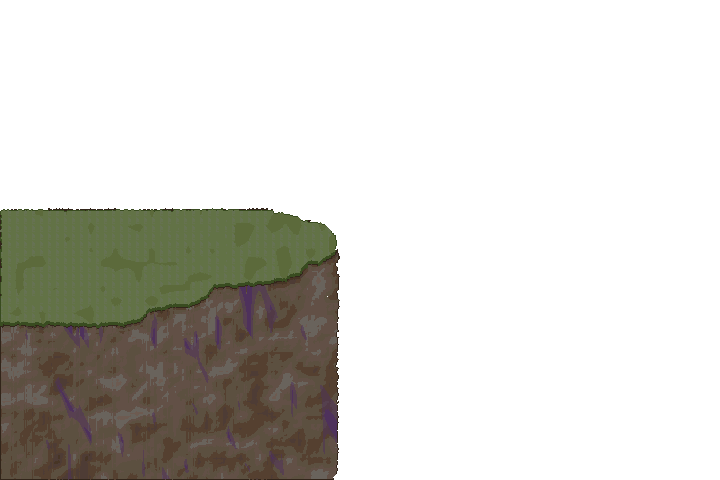
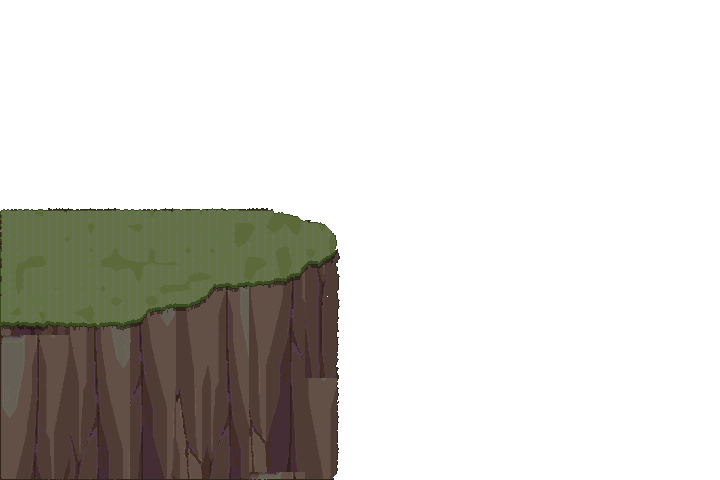
Cliff : reprendre la texture rocheuse de l'illustration source nette (colonnes a facettes) au lieu de la synthetiser

Changed region(s): [[0.0, 0.5312, 0.4889, 1.0]]

diff --git a/tileset_pmd/construire_cliff_layers.py b/tileset_pmd/construire_cliff_layers.py
@@ -75,6 +75,7 @@ REF_BORD = REF / "ref_cliff_edge.png"
 GEN_CLIFF = REF / "gen_cliff.png"
 TUILE_HERBE = REF / "tile_grass8.png"      # cellule 8x8 prelevee dans Metano
 REF_PAROI = REF / "ref_paroi.png"          # la paroi rocheuse de la reference
+TEX_PAROI = REF / "tex_paroi.png"          # colonnes rocheuses a facettes
 GEN_SEA = REF / "gen_sea.png"
 GEN_CLOUDS = REF / "gen_clouds.png"
 
@@ -232,76 +233,85 @@ def _bruit(forme, freq, graine):
 
 
 def peindre_roche(masque: np.ndarray) -> np.ndarray:
-    """Dessine la paroi en amas, facon Metano, dans la silhouette donnee.
+    """Pave la paroi avec la VRAIE texture rocheuse, dans la silhouette donnee.
 
-    Deux essais ont ete jetes avant celui-ci : un mouchetis pixel par pixel
-    (aucune structure lisible) puis des strates horizontales (velours cotele,
-    puis veines de bois des qu'on les rendait irregulieres). En regardant la
-    reference agrandie, la roche est faite de PLAQUES arrondies de taille
-    moyenne, eclairees en haut a gauche, avec des saignees mauves obliques.
+    C'est la methode du premier jet, retrouvee dans l'historique (commit
+    b632cee) : la falaise d'origine venait de `gen_cliff_metano.png`, une
+    illustration 1103x960 NETTE, ou la roche est dessinee en colonnes
+    verticales a facettes. La source utilisee ensuite, `gen_cliff.png`
+    (350x280), est floue — d'ou les tentatives de RECONSTRUIRE la texture au
+    bruit, qui n'ont jamais rendu le pixel art de Metano.
+
+    On prend donc un pave propre de cette illustration, remis a l'echelle du
+    jeu (facteur 496/1103, celui du cadrage d'origine), et on le repete dans
+    la silhouette. Les colonnes de la reference sont verticales : le pavage se
+    fait donc en x seulement, et on decale chaque bande d'un cran vertical
+    variable pour ne pas voir la repetition.
     """
     H, W = masque.shape
-    yy, xx = np.mgrid[0:H, 0:W].astype(float)
+    src = Image.open(TEX_PAROI).convert("RGB")
+    # La texture est etiree pour couvrir TOUTE la hauteur de la paroi d'un
+    # seul tenant. Empiler plusieurs rangees laissait des coutures
+    # horizontales franches en travers de la falaise, et la roche de la
+    # reference est faite de colonnes verticales : l'etirer dans leur sens ne
+    # la deforme pas, il allonge simplement les facettes.
+    if H > src.height:
+        src = src.resize((src.width, H), Image.LANCZOS)
+    t = np.array(src)
+    th, tw = t.shape[:2]
 
-    # 1. Les plaques : deux echelles de bruit, quantifiees en paliers pour
-    #    obtenir des aplats a bord net et non un degrade continu.
-    gros = _bruit((H, W), 17, 11)
-    moyen = _bruit((H, W), 8, 12)
-    fin = _bruit((H, W), 4, 13)
-    # Le bruit fin est volontairement peu pondere : au-dela, il reintroduit
-    # le grain pixel par pixel qu'on cherche justement a supprimer.
-    champ = 0.58 * gros + 0.33 * moyen + 0.09 * fin
+    # Pavage en miroir alterne. Decaler chaque bande verticalement (premier
+    # essai) faisait apparaitre de longues DIAGONALES parasites : les facettes
+    # de deux bandes voisines s'alignaient de biais. Le miroir, lui, raccorde
+    # bord a bord sans creer de direction privilegiee.
+    # Pavage en miroir alterne, DECALE en x a chaque rangee. Deux essais
+    # avant celui-ci : un decalage vertical par bande creait de longues
+    # diagonales (les facettes voisines s'alignaient de biais), et le miroir
+    # seul laissait lire des symetries en papillon. Le decalage horizontal
+    # aleatoire de chaque rangee casse ces axes.
+    # Une seule rangee, mais des colonnes de LARGEUR VARIABLE, miroitees au
+    # hasard et decalees verticalement. Le miroir systematique une colonne sur
+    # deux donnait des paires en papillon tres lisibles ; le tirage aleatoire
+    # de la largeur et du decalage les supprime tout en gardant le raccord.
+    rng = np.random.default_rng(5)
+    motif = np.zeros((H, W, 3), np.uint8)
+    x = 0
+    while x < W:
+        larg = int(rng.integers(max(8, tw // 3), tw))
+        x1 = int(rng.integers(0, max(1, tw - larg + 1)))
+        bloc = t[:, x1:x1 + larg]
+        if rng.random() < 0.5:
+            bloc = bloc[:, ::-1]
+        bloc = np.roll(bloc, int(rng.integers(0, th)), axis=0)
+        pris = min(larg, W - x)
+        motif[:, x:x + pris] = bloc[:H, :pris]
+        x += pris
 
-    # 2. Eclairage : la lumiere vient du haut a gauche. On decale le champ
-    #    d'un pixel et on compare — la ou la plaque monte, elle prend la
-    #    lumiere ; la ou elle descend, elle passe dans l'ombre. C'est ce qui
-    #    donne le galbe des amas.
-    dy = np.roll(champ, 1, 0) - champ
-    dx = np.roll(champ, 1, 1) - champ
-    relief = np.clip((dy + dx) * 9.0, -1.6, 1.6)
+    # Projection sur la palette Metano : l'illustration source est en
+    # milliers de teintes, PMDO en demande 16 par tuile.
+    pal = palette_depuis([REF_PAROI, REF_ROCHE], maxi=48)
+    chaud = (pal[:, 0] > pal[:, 2] + 25) & (pal[:, 0] > 70)
+    pal = pal[chaud]
+    d = (motif.reshape(-1, 1, 3).astype(int) - pal[None, :, :].astype(int))
+    motif = pal[(d ** 2).sum(2).argmin(1)].reshape(H, W, 3).astype(np.uint8)
 
-    niveau = 3.0 + 6.0 * champ + 1.7 * relief
+    out = np.zeros((H, W, 4), np.uint8)
+    out[masque, :3] = motif[masque]
+    out[masque, 3] = 255
 
-    # 3. Assombrissement en profondeur et sur le flanc droit, comme sur la
-    #    falaise de la reference qui s'enfonce vers la mer.
+    # Occlusion sous la levre herbeuse : la reference pose une ombre franche
+    # juste sous le plateau, c'est elle qui detache la falaise du gazon.
     haut = np.full(W, H, dtype=int)
     for x in range(W):
         col = np.nonzero(masque[:, x])[0]
         if len(col):
             haut[x] = col.min()
+    yy = np.mgrid[0:H, 0:W][0]
     prof = yy - haut[None, :]
-    niveau -= 2.6 * (prof < 3)                 # occlusion sous la levre
-    niveau -= 1.2 * ((prof >= 3) & (prof < 7))
-    niveau -= 1.3 * np.clip(prof / max(1, H - 1), 0, 1)
+    ombre = masque & (prof < 4)
+    out[ombre, :3] = (out[ombre, :3].astype(int) * 0.62).astype(np.uint8)
 
-    idx = np.clip(np.round(niveau), 0, len(ROCHE_METANO) - 1).astype(int)
-    out = np.zeros((H, W, 4), np.uint8)
-    out[masque, :3] = ROCHE_METANO[idx[masque]]
-    out[masque, 3] = 255
-
-    # 4. Veines mauves. Premier essai jete : un bruit isotrope seuille donnait
-    #    des confettis mauves eparpilles. Il faut des saignees ETIREES — on
-    #    tire donc le bruit dans une grille tres aplatie puis on l'etire, ce
-    #    qui allonge les taches, et on les cisaille en diagonale.
-    rng = np.random.default_rng(31)
-    gh, gw = max(2, H // 30 + 2), max(2, W // 11 + 2)
-    vg = np.array(Image.fromarray((rng.random((gh, gw)) * 255).astype(np.uint8))
-                  .resize((W, H), Image.BILINEAR)).astype(float) / 255.0
-    # Cisaillement franc : a 0.6 les veines tombaient a la verticale comme des
-    # coulures. A 1.6 elles filent en oblique, comme sur la reference.
-    dec = (xx * 1.6).astype(int) % max(1, H)
-    vg = vg[(np.arange(H)[:, None] - dec) % H, xx.astype(int)]
-    # Les veines restent minces et cantonnees loin du bord superieur, comme
-    # sur la reference ou la levre du plateau est franchement ocre.
-    veine = masque & (vg < 0.20) & (prof > 8)
-    # Les veines sont FONDUES a moitie dans la roche : posees en aplat pur,
-    # elles ressortaient comme des confettis violets sur l'ocre.
-    melange = (out[..., :3].astype(int) + VEINE_METANO[0].astype(int)) // 2
-    out[veine, :3] = melange[veine]
-    coeur = masque & (vg < 0.09) & (prof > 8)
-    out[coeur, :3] = VEINE_METANO[0]
-
-    # 5. Contour brun d'un pixel sur tout le pourtour visible.
+    # Contour brun d'un pixel sur tout le pourtour visible.
     bord = np.zeros((H, W), bool)
     for ddy, ddx in ((1, 0), (-1, 0), (0, 1), (0, -1)):
         bord |= ~np.roll(masque, (ddy, ddx), (0, 1))

diff --git a/cliff/README.md b/cliff/README.md
@@ -105,40 +105,42 @@ re-décimant l'image. On travaille donc sur ses **pixels natifs 504 × 384**
   mouchetis bleu dans la falaise. La rampe est filtrée sur les tons chauds
   (`R > B + 25`).
 
-## La texture de la roche est DESSINÉE, pas remappée
+## La texture de la roche vient de l'illustration source, pas d'un bruit
 
-Remapper le bruit de la génération sur une rampe ocre donnait la bonne *gamme*
-mais gardait un mouchetis aléatoire pixel par pixel — rien à voir avec le pixel
-art de la référence. La paroi et l'herbe sont donc **entièrement redessinées** :
-on ne conserve que la **silhouette** du layer `Cliffs`, et on repeint dedans.
+La paroi et l'herbe sont repeintes **dans la silhouette du layer `Cliffs`**,
+qui n'est jamais modifiée.
 
-En agrandissant `ref_cliff_edge.png`, la roche de Metano est faite de :
+Le point décisif a été retrouvé dans l'historique du dépôt (commit `b632cee`,
+la première version) : la falaise venait de **`cliff/ref2/gen_cliff_metano.png`**,
+une illustration **1103 × 960 nette**, où la roche est dessinée en **colonnes
+verticales à facettes**. La source utilisée ensuite, `gen_cliff.png` (350 × 280),
+est floue — c'est elle qui a fait dériver le rendu, et les tentatives de
+*reconstruire* la texture au bruit n'ont jamais rendu le pixel art de Metano.
 
-* des **amas arrondis** de taille moyenne dans une gamme ocre serrée
-  (`ROCHE_METANO`, 9 tons relevés au compte-gouttes) ;
-* des **veines mauves obliques** (`183,103,135`), à moitié fondues dans la
-  roche ;
-* un **contour brun foncé** d'un pixel sur tout le pourtour ;
-* une **occlusion franche** sous la lèvre herbeuse.
+On prélève donc un pavé propre de cette illustration (aucun pixel magenta ni
+liseré vert), remis à l'échelle du jeu par le **facteur 496 / 1103** du cadrage
+d'origine, stocké dans `ref2/tex_paroi.png`. Il est ensuite :
 
-Les amas viennent d'un bruit à trois échelles quantifié en paliers, éclairé en
-comparant le champ à lui-même décalé d'un pixel — là où la plaque monte elle
-prend la lumière, là où elle descend elle passe dans l'ombre. C'est ce gradient
-qui donne le galbe.
+1. **étiré sur toute la hauteur** de la paroi, d'un seul tenant ;
+2. découpé en **colonnes de largeur aléatoire**, miroitées au hasard et
+   décalées verticalement ;
+3. **projeté sur la palette Metano** filtrée sur les tons chauds.
 
-Deux approches ont été essayées puis **jetées**, ne pas y revenir :
+Puis une **occlusion franche** sous la lèvre herbeuse et un **contour brun**
+d'un pixel sur le pourtour.
 
-1. **Mouchetis pixel par pixel** — aucune structure lisible.
-2. **Strates horizontales** — effet velours côtelé ; en rendant les lits
-   irréguliers pour casser la période, la paroi virait aux veines de bois.
+### Approches jetées — ne pas y revenir
 
-De même, les veines mauves tirées d'un bruit isotrope seuillé donnaient des
-**confettis** ; il faut un bruit tiré dans une grille aplatie puis étirée, et
-cisaillé en diagonale (facteur 1.6 — à 0.6 elles tombaient en coulures
-verticales). Posées en aplat pur elles ressortaient trop : elles sont fondues
-à 50 % dans la roche, seul leur cœur est en teinte pure.
+| Essai | Résultat |
+|---|---|
+| Remappage par luminosité du bruit de génération | bonne gamme, mouchetis illisible |
+| Synthèse par bruit, strates horizontales | velours côtelé, puis veines de bois |
+| Synthèse par bruit, amas arrondis | plus proche, mais toujours pas du pixel art |
+| Pavage décalé verticalement par bande | longues **diagonales** parasites |
+| Pavage en miroir alterné strict | symétries **en papillon** très lisibles |
+| Plusieurs rangées empilées | **coutures horizontales** en travers de la paroi |
 
-Le résultat descend `Cliffs` de **46 à 20 couleurs** — de vrais aplats.
+`Cliffs` tient en **44 couleurs**, 100 % des tuiles ≤ 16 couleurs.
 
 Projeter « au plus proche » ne recolore pas non plus : la palette contient des
 bruns, chaque brun de la génération trouvait un brun. La paroi est donc
@@ -157,7 +159,7 @@ Cadre **720 × 480**, horizon **y = 144**. **100 % des tuiles ≤ 16 couleurs,
 | Moon | 26 / 2 | 41 / 2 | 33 / 2 |
 | Clouds | 897 / 475 | 897 / 365 | 897 / 270 |
 | Base | 3780 / 37 | 3780 / 238 | 3780 / 69 |
-| Cliffs | 1452 / 20 | 1452 / 20 | 1452 / 20 |
+| Cliffs | 1452 / 44 | 1452 / 44 | 1452 / 44 |
 | River | 64 / 14 | 64 / 132 | 64 / 37 |
 | River_Sparkles | 134 / 1 | 134 / 1 | 134 / 1 |
 
